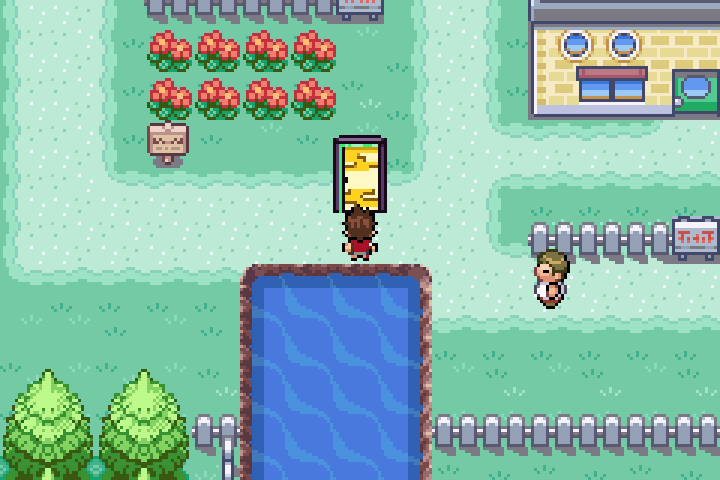
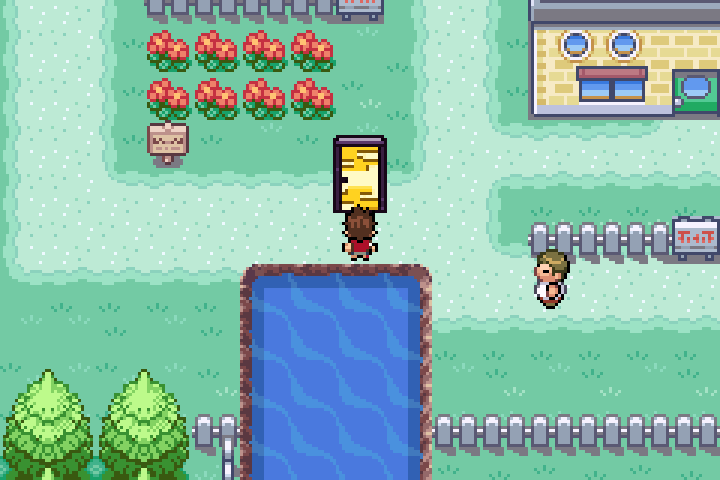
fix: supprimer le vert et fermer la porte sans fuite aux coins

Changed region(s): [[0.1833, 0.0625, 0.4889, 0.125], [0.1833, 0.1562, 0.4889, 0.25], [0.4583, 0.2812, 0.55, 0.4375]]

diff --git a/tools/yokai/convertir_porte_terreur.py b/tools/yokai/convertir_porte_terreur.py
@@ -7,21 +7,26 @@ R=Path(__file__).resolve().parents[2];D=R/'graphics/yokai_characters/porte_terre
 source=D/'source/planche-generee.png';im=Image.open(source).convert('RGBA')
 def figure(box):
  p=im.crop(box);p.putalpha(p.getchannel('A').point(lambda a:255 if a>=128 else 0));return p.crop(p.getbbox())
-closed=figure((40,130,340,610)).resize((18,26),Image.Resampling.NEAREST)
-opened=figure((1550,130,1935,610));opened=opened.crop((0,0,round(opened.width*.68),opened.height)).resize((18,26),Image.Resampling.NEAREST)
-colors=[(0,0,0),(24,8,24),(56,32,64),(88,56,104),(128,104,144),(184,160,192),(24,88,56),(16,160,72),(56,232,112),(144,248,184),(248,248,232),(248,240,168),(248,208,32),(208,152,16),(128,88,8),(248,248,192)]
+closed=figure((30,130,380,610)).resize((18,26),Image.Resampling.NEAREST)
+# The same jamb is retained in every pose. Only this exact leaf rectangle is
+# exposed, so compositing the leaf at offset zero reproduces CLOSED byte-for-byte.
+bounds=(10,9,23,30);distance=bounds[2]-bounds[0]
+colors=[(0,0,0),(24,8,24),(56,32,64),(88,56,104),(128,104,144),(184,160,192),(248,248,248),(248,240,168),(248,208,32),(208,152,16),(128,88,8),(248,248,192),(248,224,80),(96,48,24),(176,160,184),(8,0,8)]
 flat=[v for c in colors for v in c]+[0]*720
-frames=[]
-for p in [closed,opened]:
- canvas=Image.new('RGBA',(32,32));canvas.paste(p,(7,5));frames.append(canvas)
-# The leaf is cut from the same closed image. Its artwork never changes while
-# the engine translates it horizontally. No intermediate poses are redrawn.
-leaf=Image.new('RGBA',(32,32));leaf.paste(frames[0].crop((10,9,23,31)),(10,9))
-def indexed(frame):
- q=Image.new('P',frame.size);q.putpalette(flat);q.putdata([0 if a<128 else min(range(1,16),key=lambda i:sum((v-colors[i][j])**2 for j,v in enumerate((r,g,b)))) for r,g,b,a in frame.get_flattened_data()]);return q
-sheet=Image.new('P',(64,32));sheet.putpalette(flat)
-for i,p in enumerate(frames):sheet.paste(indexed(p),(i*32,0))
-sheet.save(D/'overworld.png',transparency=0);indexed(leaf).save(D/'panneau.png',transparency=0)
+canvas=Image.new('RGBA',(32,32));canvas.paste(closed,(7,5))
+closed=Image.new('P',(32,32));closed.putpalette(flat)
+# Pure white belongs only to the revealed opening, never a closed corner.
+closed.putdata([0 if a<128 else min([i for i in range(1,16) if i!=6],key=lambda i:sum((v-colors[i][j])**2 for j,v in enumerate((r,g,b)))) for r,g,b,a in canvas.get_flattened_data()])
+opened=closed.copy();opened.paste(6,bounds)
+leaf=Image.new('P',(32,32));leaf.putpalette(flat);leaf.paste(closed.crop(bounds),bounds[:2])
+mask=Image.new('L',(32,32));mask.putdata([255 if i else 0 for i in leaf.get_flattened_data()])
+sealed=opened.copy();sealed.paste(leaf,(0,0),mask)
+assert sealed.tobytes()==closed.tobytes(), 'Leaf/frame gap in the closed composition'
+assert 6 not in set(closed.tobytes()), 'White pixel leaked into the closed door'
+assert set(opened.crop(bounds).tobytes())=={6}, 'Portal is not uniformly white'
+assert not any(g>r and g>b for r,g,b in colors), 'Green entry remains'
+sheet=Image.new('P',(64,32));sheet.putpalette(flat);sheet.paste(closed,(0,0));sheet.paste(opened,(32,0))
+sheet.save(D/'overworld.png',transparency=0);leaf.save(D/'panneau.png',transparency=0)
 sheet.convert('RGBA').resize((384,192),Image.Resampling.NEAREST).save(P/'fermee-ouverte-x6.png')
 (D/'normal.pal').write_text('JASC-PAL\n0100\n16\n'+'\n'.join(' '.join(map(str,c)) for c in colors)+'\n')
-(D/'CONVERSION.json').write_text(json.dumps(dict(source_sha256=hashlib.sha256(source.read_bytes()).hexdigest(),frame_size=[32,32],visible_height=26,nathan_height=19,leaf_bounds=[10,9,23,31],translation_pixels=16,method='crop generated artwork, nearest-neighbor native conversion, shared GBA palette; rigid leaf reused'),indent=2)+'\n')
+(D/'CONVERSION.json').write_text(json.dumps(dict(source_sha256=hashlib.sha256(source.read_bytes()).hexdigest(),frame_size=[32,32],visible_height=26,nathan_height=19,leaf_bounds=bounds,translation_pixels=distance,closed_composition_exact=True,portal_uniform_white=True,green_palette_entries=0,method='generated artwork converted to native frame; same frame retained, exact rigid leaf rectangle replaced with white'),indent=2)+'\n')

diff --git a/tools/yokai/capturer_porte_terreur_mgba.py b/tools/yokai/capturer_porte_terreur_mgba.py
@@ -26,8 +26,8 @@ def attempt(record):
   if t:
    panelId=struct.unpack('<h',r.read(t+8,2))[0];panel_ids.add(panelId);ps=r.symbols['gSprites']+68*panelId
    shift=struct.unpack('<h',r.read(ps+36,2))[0];positions.add(shift)
-   if record and shift==8 and not half:shot('coulissement');half=True
-   if record and shift==16 and not opened:shot('ouverte');opened=True
+   if record and shift==6 and not half:shot('coulissement');half=True
+   if record and shift==13 and not opened:shot('ouverte');opened=True
   im=r.frame.copy();isWhite=all(lo==hi and lo>=248 for lo,hi in im.getextrema())
   if isWhite:
    assert r.read(0x05000000,1024)==b'\xff\x7f'*512, 'White frame without fully white hardware palettes'
@@ -39,12 +39,12 @@ def attempt(record):
    # Field controls are released only after the demo fade-in. Settle before checking its closed tile.
    r.run(30);break
  else:raise AssertionError(('Interaction did not finish',seen,white,positions))
- assert seen and white and set(range(17))<=positions,(seen,white,positions)
+ assert seen and white and set(range(14))<=positions,(seen,white,positions)
  for panel_id in panel_ids:
   assert not r.read(r.symbols['gSprites']+68*panel_id+62,1)[0]&1, 'Leaked sliding panel sprite'
  tile=int.from_bytes(r.read(sprite+4,2),'little')&1023
  assert r.read(0x06010000+tile*32,512)==raw[:512],'Door did not close after the demonstration'
- checks.append(dict(test='Native A interaction: rigid leaf slides 0..16 pixels, full white fade, unchanged location, closed/reset and controls restored',replay=not record,passed=True))
+ checks.append(dict(test='Native A interaction: rigid leaf slides 0..13 pixels, full white fade, unchanged location, closed/reset and controls restored',replay=not record,passed=True))
 try:
  r.call('CreateMon',r.symbols['gPlayerParty'],1,50,31,1,12345,0,0);r.write(r.symbols['gPlayerPartyCount'],b'\1');r.call('FlagSet',0x828)
  g,n=maps['PalletTown'];r.call('SetWarpDestination',g,n,255,9,16);r.call('WarpIntoMap');r.call('SetMainCallback2',r.symbols['CB2_LoadMap']|1);r.run(400)

diff --git a/src/porte_terreur.c b/src/porte_terreur.c
@@ -29,10 +29,10 @@ static void Task_PorteTerreur(u8 taskId)
     switch (data[3])
     {
     case 0:
-        // The same leaf tiles are translated 16 pixels, one pixel every two
+        // The same leaf tiles are translated 13 pixels, one pixel every two
         // frames. The stationary jamb and the player do not move.
         panel->x2 = ++data[2] / 2;
-        if (data[2] == 32) { data[2] = 0; data[3]++; }
+        if (data[2] == 26) { data[2] = 0; data[3]++; }
         break;
     case 1:
         if (++data[2] == 18)

diff --git a/docs/porte-terreur-20261024/RAPPORT.md b/docs/porte-terreur-20261024/RAPPORT.md
@@ -1,10 +1,10 @@
 # Porte coulissante : prototype dans le jeu
 
-La première pose représente une porte **complètement fermée** : panneau opaque crème et or couvrant toute l'ouverture, liseré vert décoratif autour du cadre, aucune fente de portail blanc. Le sprite visible mesure 26 pixels de haut, contre 19 pour Nathan.
+La première pose représente une porte **complètement fermée** : panneau opaque crème et or couvrant toute l'ouverture, cadre sombre sans pixels verts, aucune fente de portail blanc. Le sprite visible mesure 26 pixels de haut, contre 19 pour Nathan.
 
 [Aperçu mGBA ×3](public/ouverture-fondu-mgba-x3.gif) — [porte fermée](public/fermee-x3.png) — [panneau en cours de coulissement](public/coulissement-x3.png) — [porte ouverte](public/ouverte-x3.png) — [fondu blanc](public/fondu-blanc-x3.png).
 
-L'interaction par A crée un panneau temporaire reprenant exactement les mêmes tuiles que le panneau fermé. Le moteur le translate vers la droite de 16 pixels, un pixel toutes les deux images, devant un cadre fixe. Après l'ouverture, il lance un fondu blanc sur toutes les palettes. Le panneau temporaire est détruit et la porte réinitialisée sous le blanc, puis le script appelant reprend. La destination reste à définir : aucun warp n'est ajouté.
+L'interaction par A crée un panneau temporaire reprenant exactement les mêmes tuiles que le panneau fermé. Le moteur le translate vers la droite de 13 pixels, un pixel toutes les deux images, devant un cadre fixe. Après l'ouverture, il lance un fondu blanc sur toutes les palettes. Le panneau temporaire est détruit et la porte réinitialisée sous le blanc, puis le script appelant reprend. La destination reste à définir : aucun warp n'est ajouté.
 
 Le script de démonstration attend brièvement sur le blanc puis revient à la même scène, libère les commandes et permet une nouvelle ouverture. Aucun événement de carte permanent ne référence cette porte : l'emplacement à Bourg Palette est préparé uniquement dans la RAM de l'émulateur. Le script d'interaction, la ressource et le special sont disponibles pour une intégration ultérieure.
 
@@ -12,8 +12,12 @@ Le script de démonstration attend brièvement sur le blanc puis revient à la m
 
 Compilation publique réussie. La capture provient de mGBA, sans montage du sprite sur le décor ni injection des positions intermédiaires ou du fondu. Le banc remplace temporairement un modèle d'acteur de carte, place le joueur devant la porte, et l'ouvre par une vraie pression sur A.
 
-Contrôles : tuiles de porte fermée inchangées avant interaction ; tentative de déplacement bloquée devant son acteur ; coulissement natif observé de 0 à 16 pixels ; image uniformément blanche et toutes les palettes matérielles égales à `0x7FFF` ; coordonnées et carte du joueur inchangées ; retour à la pose fermée ; reprise des commandes ; panneau temporaire détruit ; seconde ouverture réussie. [Résultats et empreinte de la ROM de démonstration](public/TEST.json).
+Contrôles : tuiles de porte fermée inchangées avant interaction ; tentative de déplacement bloquée devant son acteur ; coulissement natif observé de 0 à 13 pixels ; image uniformément blanche et toutes les palettes matérielles égales à `0x7FFF` ; coordonnées et carte du joueur inchangées ; retour à la pose fermée ; reprise des commandes ; panneau temporaire détruit ; seconde ouverture réussie. [Résultats et empreinte de la ROM de démonstration](public/TEST.json).
 
 Les captures fermée / intermédiaire / ouverte ont été inspectées visuellement. Cet essai valide le prototype à Bourg Palette, sans encore tester une destination ou l'intégrer à un chapitre. Aucune sauvegarde utilisateur chargée, aucune musique modifiée, aucune ROM publiée, aucune fusion sur master.
 
 Sources : `src/porte_terreur.c`, `data/scripts/porte_terreur.inc`, `graphics/yokai_characters/porte_terreur/`. Conversion : `python tools/yokai/convertir_porte_terreur.py`. Après compilation, capture : `python tools/yokai/capturer_porte_terreur_mgba.py`.
+
+## Ajustement du cadre et du panneau
+
+Tous les pixels verts ont été retirés. Le portail révélé est un rectangle uniformément blanc (indice de palette dédié, RGB GBA 31/31/31). Le cadre ouvert est dérivé exactement du cadre fermé : seul le rectangle couvert par le panneau est remplacé par du blanc. Le panneau découpé dans cette même image recouvre ce rectangle pixel pour pixel à la fermeture ; le convertisseur vérifie que cette composition reproduit exactement l'image fermée et qu'aucun pixel blanc pur n'y est présent. Sa course correspond désormais à sa largeur (13 pixels), ce qui maintient le panneau contre le cadre à pleine ouverture. Les trois états ont été revérifiés visuellement dans mGBA ; ouverture, fondu blanc complet et réouverture passent toujours.
